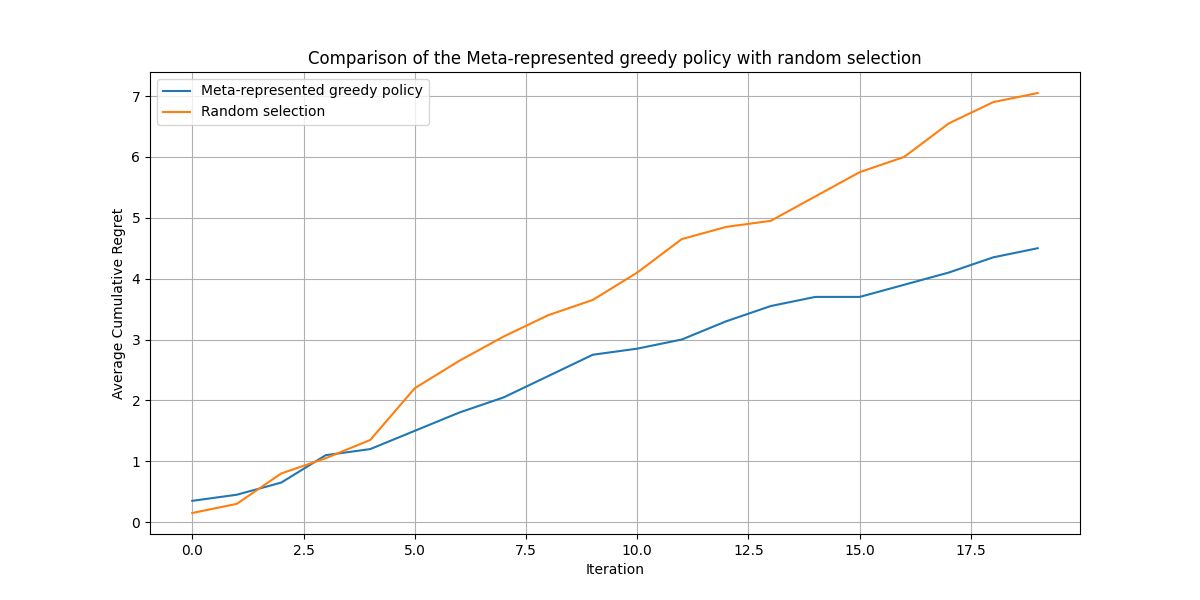
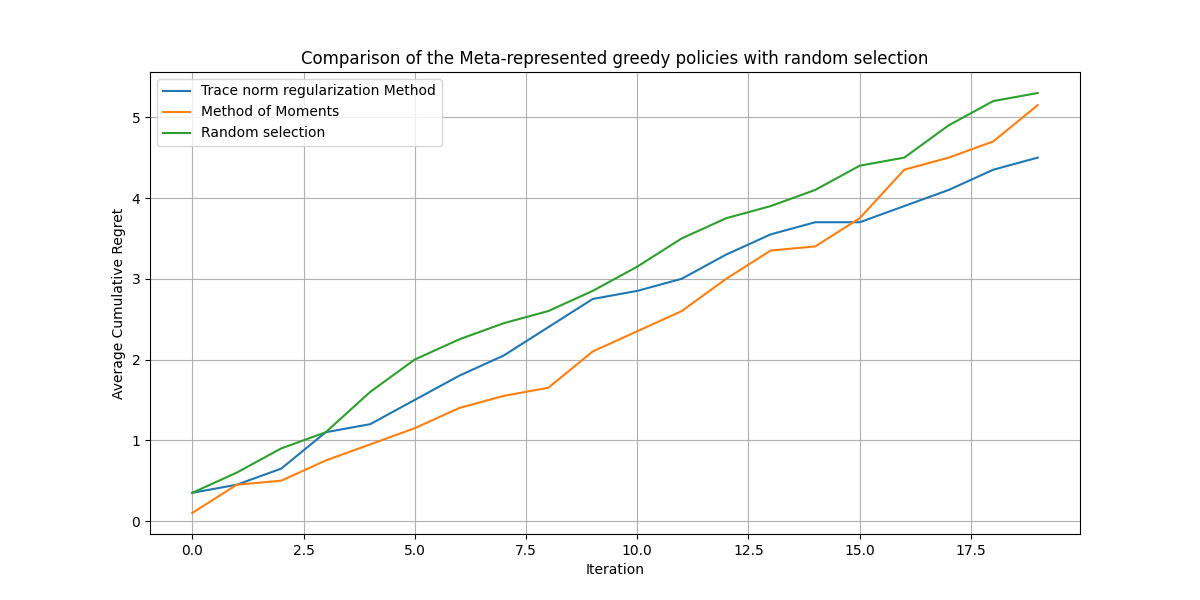
add method of moments

diff --git a/src/meta_learning.py b/src/meta_learning.py
@@ -12,46 +12,55 @@ with open("../data/X_test.pkl", "rb") as f:
 with open("../data/Y_test.pkl", "rb") as f:
     Y_test = pickle.load(f)
 
-B = np.load("../data/B_ml.npy")
+B_trace = np.load("../data/B_ml.npy")
+B_mom = np.load("../data/B_ml_mom.npy")
 
 total_iterations = 20
 
-# Algorithm : Meta-Represented Greedy Policy
-regrets = np.zeros(total_iterations)
 
-for t in range(5):
-    X_test_array = np.array(X_test[t])
-    Y_test_array = np.array(Y_test[t])
+def calculate_regret(X_test, Y_test, B):
+    regrets = np.zeros(total_iterations)
 
-    n, d = X_test_array.shape
+    for t in range(5):
+        X_test_array = np.array(X_test[t])
+        Y_test_array = np.array(Y_test[t])
 
-    arms = set(range(n))
-    arm = np.random.randint(0, n)
-    arms.remove(arm)
+        n, d = X_test_array.shape
 
-    X_i = np.array([X_test_array[arm]])
-    Y_i = np.array([Y_test_array[arm]])
-
-    best_reward = np.max(Y_test_array)
-    regrets[0] += best_reward - Y_test_array[arm]
-
-    for i in range(1, total_iterations):
-        X_iTX_i = X_i.T @ X_i
-        BTX_iTX_iB = B.T @ X_iTX_i @ B
-        BTX_iTY_i = B.T @ X_i.T @ Y_i
-
-        reg = 1e-6 * np.eye(BTX_iTX_iB.shape[0])
-        alpha_i = np.linalg.inv(BTX_iTX_iB + reg) @ BTX_iTY_i
-
-        arm = max(arms, key=lambda a: np.dot(B @ alpha_i, X_test_array[a]))
-        best_reward = np.max([Y_test_array[a] for a in arms])
-
-        X_i = np.vstack([X_i, X_test_array[arm]])
-        Y_i = np.append(Y_i, Y_test_array[arm])
-
-        regrets[i] += best_reward - Y_test_array[arm]
+        arms = set(range(n))
+        arm = np.random.randint(0, n)
         arms.remove(arm)
 
+        X_i = np.array([X_test_array[arm]])
+        Y_i = np.array([Y_test_array[arm]])
+
+        best_reward = np.max(Y_test_array)
+        regrets[0] += best_reward - Y_test_array[arm]
+
+        for i in range(1, total_iterations):
+            X_iTX_i = X_i.T @ X_i
+            BTX_iTX_iB = B.T @ X_iTX_i @ B
+            BTX_iTY_i = B.T @ X_i.T @ Y_i
+
+            reg = 1e-6 * np.eye(BTX_iTX_iB.shape[0])
+            alpha_i = np.linalg.inv(BTX_iTX_iB + reg) @ BTX_iTY_i
+
+            arm = max(arms, key=lambda a: np.dot(B @ alpha_i, X_test_array[a]))
+            best_reward = np.max([Y_test_array[a] for a in arms])
+
+            X_i = np.vstack([X_i, X_test_array[arm]])
+            Y_i = np.append(Y_i, Y_test_array[arm])
+
+            regrets[i] += best_reward - Y_test_array[arm]
+            arms.remove(arm)
+    return regrets
+
+
+# Algorithm : Meta-Represented Greedy Policy
+regrets_trace = calculate_regret(X_test, Y_test, B_trace)
+
+# Algorithm : Method of Moments
+regrets_mom = calculate_regret(X_test, Y_test, B_mom)
 
 # Algorithm : Random Selection of the arms
 regrets_random = np.zeros(total_iterations)
@@ -70,16 +79,21 @@ for t in range(5):
         regrets_random[i] += best_reward - Y_test_array[arm]
 
 
-cumulative_regrets = np.cumsum(regrets)
+cumulative_regrets_trace = np.cumsum(regrets_trace)
 cumulative_regrets_random = np.cumsum(regrets_random)
+cumulative_regrets_mom = np.cumsum(regrets_mom)
 
 
 plt.figure(figsize=(12, 6))
-plt.plot(cumulative_regrets / total_iterations, label="Meta-represented greedy policy")
+plt.plot(
+    cumulative_regrets_trace / total_iterations,
+    label="Trace norm regularization Method",
+)
+plt.plot(cumulative_regrets_mom / total_iterations, label="Method of Moments")
 plt.plot(cumulative_regrets_random / total_iterations, label="Random selection")
 plt.xlabel("Iteration")
 plt.ylabel("Average Cumulative Regret")
-plt.title("Comparison of the Meta-represented greedy policy with random selection")
+plt.title("Comparison of the Meta-represented greedy policies with random selection")
 plt.legend()
 plt.grid(True)
 plt.savefig("../results/Average Cumulative Regret of 5 test users.png")

diff --git a/src/method_of_moments.py b/src/method_of_moments.py
@@ -1,0 +1,45 @@
+"""Implementation of method of moments [Nilesh Tripuraneni, Chi Jin, and Michael Jordan, 2021] Provable meta-learning of linear representations"""
+
+import numpy as np
+
+
+def estimate_B_using_mom(X, Y, r):
+    """
+    Estimate the matrix B using the method of moments.
+
+    Parameters
+    ----------
+    X : array-like, shape (T, n, d)
+        The context data.
+    Y : array-like, shape (T, n)
+        The reward data.
+    r : int
+        The number of singular values to retain.
+
+    Returns
+    -------
+    B : array-like, shape (d, r)
+        The estimation of the matrix B.
+    """
+    T, n, d = X.shape
+
+    result_matrix = np.zeros((d, d))
+
+    for t in range(T):
+        for i in range(n):
+            y_squared = Y[t, i] ** 2
+            x_i = X[t, i].reshape(d, 1)
+            result_matrix += y_squared * (x_i @ x_i.T)
+
+    result_matrix /= n * T
+
+    U, _, _ = np.linalg.svd(result_matrix, full_matrices=False)
+    B = U[:, :r]
+    return B
+
+
+X = np.load("../data/X_ml.npy")
+Y = np.load("../data/Y_ml.npy")
+
+B = estimate_B_using_mom(X, Y, 3)
+np.save("../data/B_ml_mom.npy", B)
